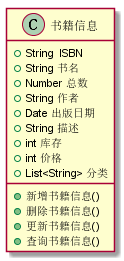
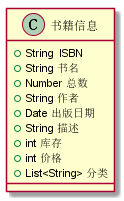
5-17修改

diff --git a/test3/README.md b/test3/README.md
@@ -13,20 +13,12 @@ class 预订书籍{
     +String  ISBN
     +String  预订人ID
     +Data  预订日期
-    +新增预订信息()
-    +删除预订信息()
-    +更新预订信息()
-    +查询预订信息()
 }
 class 借阅书籍{
     +String  ISBN
     +String  借阅者ID
     +Data  借书时间
     +Data  还书时间
-    +新增书籍()
-    +删除书籍()
-    +更新书籍()
-    +查询书籍()
 }
 
 class 借阅者{
@@ -34,15 +26,8 @@ class 借阅者{
     +String  密码
     +String  姓名
     +String  性别
-    +查询书籍()
-    +借阅书籍()
-    +预订书籍()
-    +归还书籍()
-    +续借书籍()
 }
-class 游客{
-    +查询书籍()
-}
+
 class 书籍信息{
     +String  ISBN
     +String 书名
@@ -53,28 +38,31 @@ class 书籍信息{
     +int 库存
     +int 价格
     +List<String> 分类
-    +新增书籍信息()
-    +删除书籍信息()
-    +更新书籍信息()
-    +查询书籍信息()
 }
 class 管理员{
     String adminID
-    String password
-    +增、删、查、改()
+    String 密码
+    String 姓名
 }
 
-游客"1" -- "N"书籍信息:查询书籍
-借阅者"1" -- "N"书籍信息:查询书籍
+
 借阅者"1" -- "N"预订书籍:预订、取消预订
 借阅者"1" -- "N"借阅书籍:借阅、归还书籍
-书籍信息 <.. 管理员:增、删、查、改
-预订书籍 <.. 管理员:增、删、查、改
-借阅书籍  <.. 管理员:增、删、查、改
+预订书籍 ..> 书籍信息
+借阅书籍 ..> 书籍信息
+书籍信息"N" -- "1"管理员:维护书籍信息
 @enduml
 ```
 ### 1.2 类图如下：
 ![类图](./out/library/library.png)
+
+### 1.3类图说明
+总共有5个类，分别是借阅者类、预订书籍类、借阅书籍类、书籍信息类、管理员类，类与类之间的关系如下：
+1.借阅者与预订书籍之间的一对多（1-N）的关系，即一个借阅者可以预订多本书籍
+2.借阅者与借阅书籍之间的一对多（1-N）的关系，即一个借阅者可以借阅多本书籍
+3.预订书籍和书籍信息之间存在依赖关系，即预订书籍依赖与书籍信息
+4.借阅书籍与书籍信息之间存在依赖关系，即借阅书籍依赖与书籍信息
+5.管理员与书籍信息之间是一对多（1-N）的关系，即一个管理员可以维护多本书籍
 
 2.图书管理系统的对象图
 ### 2.1 预订书籍类
@@ -83,10 +71,6 @@ class 预订书籍{
     +String  ISBN
     +String  预订人ID
     +Data  预订日期
-    +新增预订信息()
-    +删除预订信息()
-    +更新预订信息()
-    +查询预订信息()
 }
 ```
 ![预订书籍类](./out/1/1.png)
@@ -98,10 +82,6 @@ class 借阅书籍{
     +String  借阅者ID
     +Data  借书时间
     +Data  还书时间
-    +新增书籍()
-    +删除书籍()
-    +更新书籍()
-    +查询书籍()
 }
 ```
 ![借阅书籍类](./out/2/2.png)
@@ -118,10 +98,6 @@ class 书籍信息{
     +int 库存
     +int 价格
     +List<String> 分类
-    +新增书籍信息()
-    +删除书籍信息()
-    +更新书籍信息()
-    +查询书籍信息()
 }
 ```
 ![书籍信息类](./out/5/5.png)
@@ -133,29 +109,17 @@ class 借阅者{
     +String  密码
     +String  姓名
     +String  性别
-    +查询书籍()
-    +借阅书籍()
-    +预订书籍()
-    +归还书籍()
-    +续借书籍()
 }
 ```
 ![借阅者类](./out/3/3.png)
 
-### 2.5 游客类
-```
-class 游客{
-    +查询书籍()
-}
-```
-![游客类](./out/4/4.png)
 
-### 2.6 管理员类
+### 2.5 管理员类
 ```
 class 管理员{
     String adminID
-    String password
-    +增、删、查、改()
+    String 密码
+    String 姓名
 }
 ```
 ![管理员类](./out/6/6.png)
